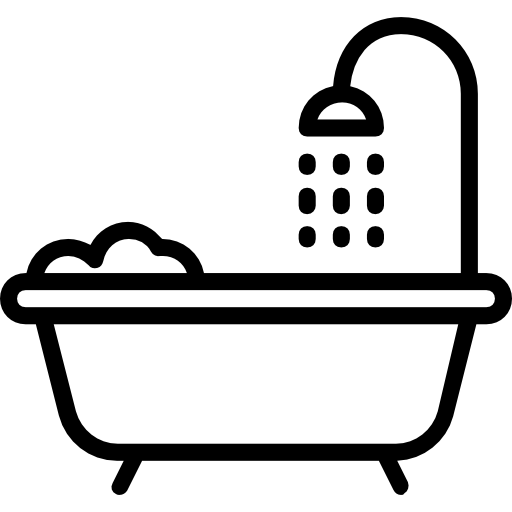
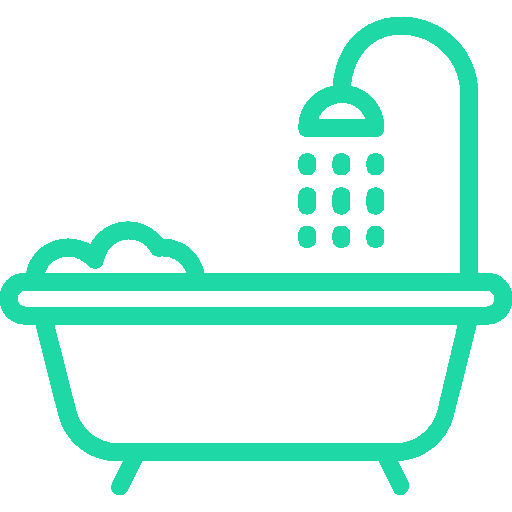
update listing with theme color and landing page change

Changed region(s): [[0.0, 0.0312, 1.0, 0.9688]]

diff --git a/components/ListingsPages/ListingCard.js b/components/ListingsPages/ListingCard.js
@@ -15,9 +15,9 @@ const onPress = () => {
 };
 
 const boxItems = [
-  { icon: "", qty: 2, bWidth: 0 },
-  { icon: "", qty: 6, bWidth: 1 },
-  { icon: "", qty: 4, bWidth: 0 },
+  { icon: require("../../assets/images/car.png"), qty: 2, bWidth: 0 },
+  { icon: require("../../assets/images/bed.png"), qty: 6, bWidth: 1 },
+  { icon: require("../../assets/images/bathtub.png"), qty: 4, bWidth: 0 },
 ];
 
 const ListingCard = (props) => {
@@ -68,7 +68,7 @@ const ListingCard = (props) => {
           paddingRight: 80,
         }}
       >
-        <Text style={{ color: "green", fontSize: 16 }}>$1400/months</Text>
+        <Text style={{ color: "#1ed9a6", fontSize: 16 }}>$1400/months</Text>
         <Text style={{ color: "black", fontSize: 13 }}>Jhon Melton</Text>
       </View>
 
@@ -100,12 +100,10 @@ const ListingCard = (props) => {
                 padding: 6,
               }}
             >
-              <Avatar
-                size={15}
-                title="BP"
-                source={require("../../assets/images/car.png")}
-              />
-              <Text style={{ textAlign: "center" }}>{item.qty}</Text>
+              <Avatar size={15} title="BP" source={item.icon} />
+              <Text style={{ textAlign: "center", color: "#1ed9a6" }}>
+                {item.qty}
+              </Text>
             </View>
           </View>
         ))}

diff --git a/components/DetailsPage/DetailsPage.js b/components/DetailsPage/DetailsPage.js
@@ -32,10 +32,10 @@ export default function DetailsPage(props) {
               <Ionicons
                 name="location"
                 size={15}
-                color="#2874A6"
+                color="#1ed9a6"
                 style={{ marginRight: 8 }}
               />
-              <Text style={{ color: "#2874A6" }}>
+              <Text style={{ color: "#1ed9a6" }}>
                 There is a address/ location
               </Text>
             </View>
@@ -54,7 +54,9 @@ export default function DetailsPage(props) {
             </View>
             <View>
               <View style={styles.flexRow}>
-                <Text style={{ fontWeight: "bold" }}>Owner Name</Text>
+                <Text style={{ fontWeight: "bold", color: "#1ed9a6" }}>
+                  Owner Name
+                </Text>
                 <Text style={{ fontSize: 10, marginLeft: 10 }}>(45 ads)</Text>
               </View>
               <Text style={{ fontSize: 10 }}>Member since November 2021</Text>
@@ -92,6 +94,7 @@ const styles = StyleSheet.create({
   titleStyle: {
     fontSize: 20,
     fontWeight: "700",
+    color: "#1ed9a6",
   },
   priceBox: {
     display: "flex",

diff --git a/components/Carousel/CarouselItem.js b/components/Carousel/CarouselItem.js
@@ -33,7 +33,7 @@ const styles = StyleSheet.create({
     backgroundColor: "white",
     // margin: 10,
     borderRadius: 10,
-    shadowColor: "#000",
+    shadowColor: "#fff",
     shadowOffset: { width: 0.5, height: 0.5 },
     shadowOpacity: 0.5,
     shadowRadius: 3,
@@ -45,12 +45,12 @@ const styles = StyleSheet.create({
     bottom: 10,
     margin: 10,
     right: 5,
-    borderColor: "white",
+    borderColor: "#1ed9a6",
     borderWidth: 1,
     borderRadius: 5,
     paddingHorizontal: 8,
     paddingVertical: 4,
-    backgroundColor: "#17202A90",
+    backgroundColor: "#17202A50",
   },
   image: {
     width: width,
@@ -69,9 +69,9 @@ const styles = StyleSheet.create({
     elevation: 5,
   },
   itemDescription: {
-    color: "white",
+    color: "#1ed9a6",
     fontSize: 12,
-    shadowColor: "#000",
+    shadowColor: "#fff",
     shadowOffset: { width: 0.8, height: 0.8 },
     shadowOpacity: 1,
     shadowRadius: 3,

diff --git a/App.js b/App.js
@@ -35,28 +35,8 @@ function HomeScreen({ navigation }) {
     }, 3000);
   }, []);
   return (
-    <>
-      {firstLoad ? (
-        // <View
-        //   style={{ flex: 1, alignItems: "center", justifyContent: "center" }}
-        // >
-        //   <Text style={styles.titleText}>ULET</Text>
-
-        //   <LinearGradient
-        //     // Button Linear Gradient
-        //     colors={["#1ed9a6", "#335799"]}
-        //     style={styles.subBg}
-        //     start={{ x: 0, y: 0.5 }}
-        //     end={{ x: 1, y: 0.9 }}
-        //   >
-        //     <Text style={styles.subTitle}>BE INCLUDED</Text>
-        //   </LinearGradient>
-        // </View>
-        <Brand />
-      ) : (
-        <MenuListPage navigation={navigation} />
-      )}
-    </>
+    <>{firstLoad ? <Brand /> : <Listings navigation={navigation} />}</>
+    // <>{firstLoad ? <Brand /> : <MenuListPage navigation={navigation} />}</>
   );
 }
 

diff --git a/components/ListingsPages/MenuItems.js b/components/ListingsPages/MenuItems.js
@@ -33,7 +33,9 @@ export class MenuItems extends Component {
                 resizeMode: "contain",
               }}
             />
-            <Text style={{ fontSize: 13, fontWeight: "bold" }}>
+            <Text
+              style={{ fontSize: 13, fontWeight: "bold", color: "#1ed9a6" }}
+            >
               {item.title}
             </Text>
           </View>

diff --git a/components/ListingsPages/SearchBar.js b/components/ListingsPages/SearchBar.js
@@ -68,7 +68,7 @@ export default function SearchBar(props) {
               <AntDesign
                 name="clockcircle"
                 size={11}
-                style={{ marginRight: 8 }}
+                style={{ marginRight: 8, color: "#1ed9a6" }}
               />
               <Text>Search</Text>
             </View>
